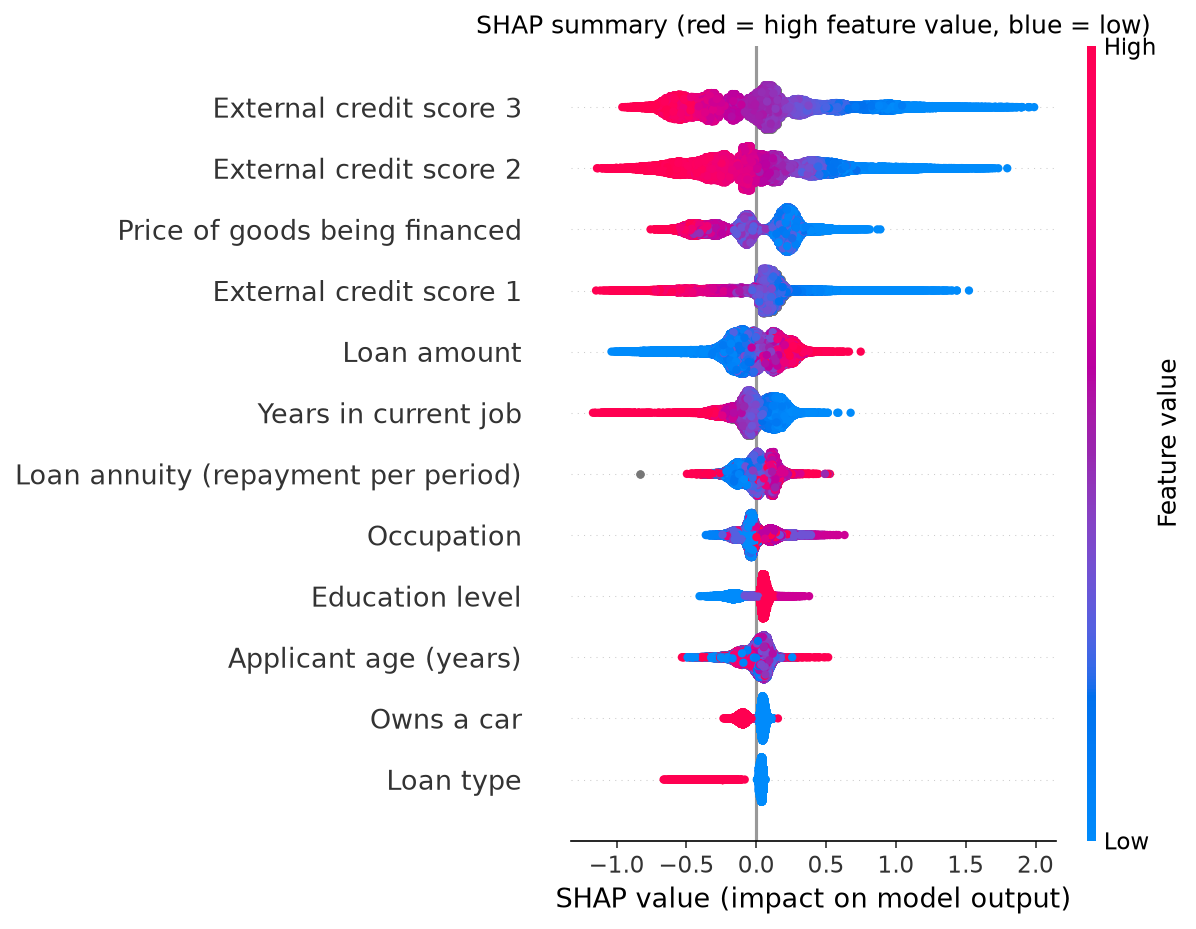
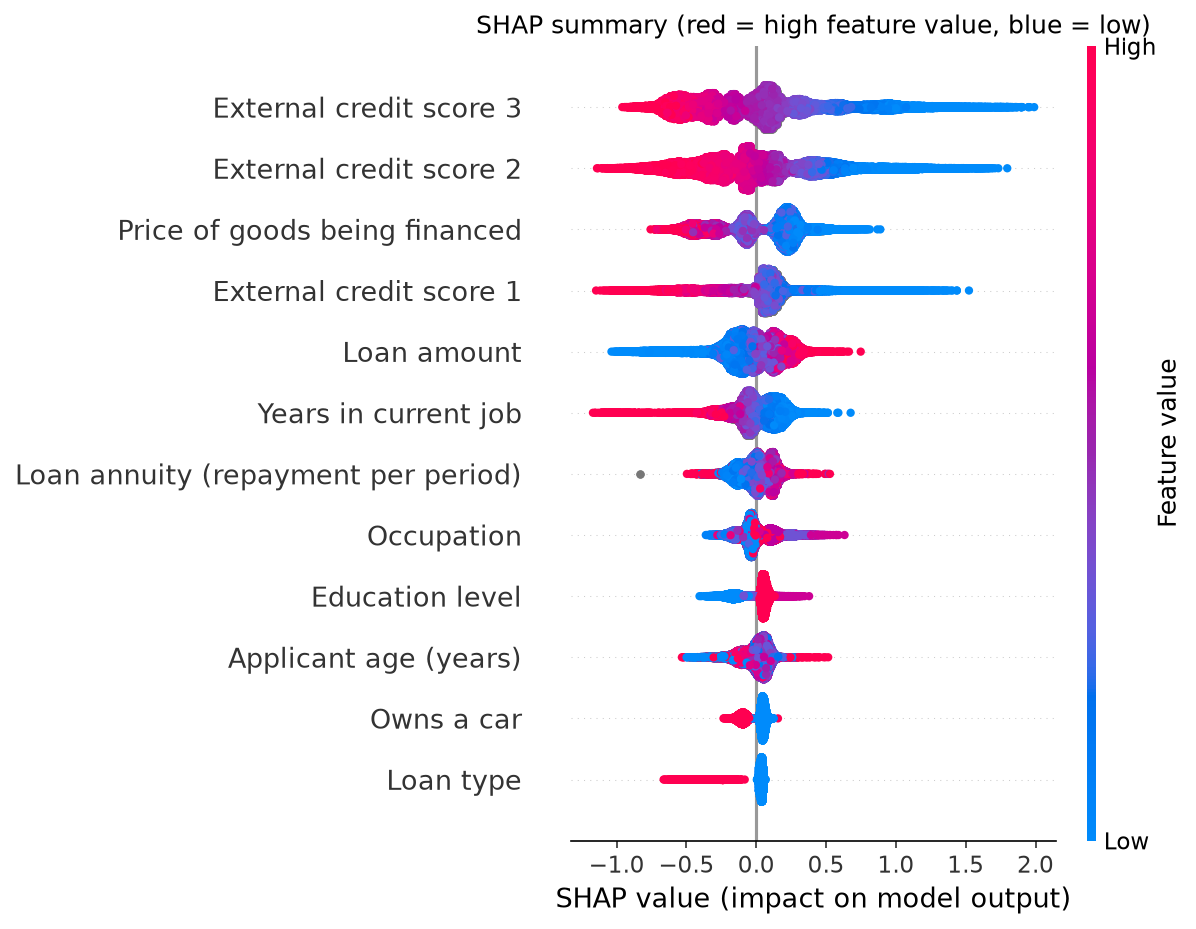
shap ground truth

diff --git a/src/compute_shap.py b/src/compute_shap.py
@@ -1,0 +1,117 @@
+"""Compute SHAP values (the ground truth) for every unseen test applicant."""
+import warnings
+from pathlib import Path
+
+import joblib
+import matplotlib
+
+matplotlib.use("Agg")
+import matplotlib.pyplot as plt
+import numpy as np
+import pandas as pd
+import shap
+
+from src.data_prep import CATEGORICAL, FEATURES, READABLE
+from src.train_model import FIG, MODEL_PATH, PRED_PATH, load_config, load_data, split
+
+SHAP_PATH = Path("data/processed/shap_values_test.csv")
+TABLES = Path("outputs/tables")
+
+# shap prints a harmless notice about its LightGBM output format; the code below handles both formats.
+warnings.filterwarnings("ignore", message=".*LightGBM binary classifier.*")
+
+TOP_K = 8  # features shown in the single-applicant chart
+
+
+def fmt(value) -> str:
+    if pd.isna(value):
+        return "missing"
+    if isinstance(value, (int, float, np.integer, np.floating)):
+        return f"{value:,.2f}"
+    return str(value)
+
+
+def main() -> None:
+    cfg = load_config()
+    model = joblib.load(MODEL_PATH)
+    _, _, test = split(load_data(), cfg["seed"], cfg["test_size"])
+    X = test[FEATURES]
+
+    # 1. SHAP values: one number per applicant per feature
+    explainer = shap.TreeExplainer(model)
+    sv = explainer.shap_values(X)
+    if isinstance(sv, list):          # some shap versions return [class 0, class 1]
+        sv = sv[1]
+    sv = np.asarray(sv)
+    if sv.ndim == 3:                  # some return (applicants, features, classes)
+        sv = sv[:, :, 1]
+    base = np.ravel(explainer.expected_value)[-1]
+
+    # 2. Sanity check: baseline + sum of an applicant's SHAP values must equal the model's raw output
+    raw = model.predict(X, raw_score=True)
+    err = np.abs(base + sv.sum(axis=1) - raw).max()
+    print(f"Additivity check (should be ~0): max difference = {err:.2e}")
+
+    shap_df = pd.DataFrame(sv, columns=FEATURES)
+    shap_df.insert(0, "SK_ID_CURR", test["SK_ID_CURR"].values)
+    shap_df.to_csv(SHAP_PATH, index=False)
+
+    # 3. Global importance: average size of each feature's push across all test applicants
+    mean_abs = np.abs(sv).mean(axis=0)
+    glob = pd.DataFrame({"feature": FEATURES, "readable": [READABLE[f] for f in FEATURES], "mean_abs_shap": mean_abs})
+    glob["share_pct"] = glob["mean_abs_shap"] / glob["mean_abs_shap"].sum() * 100
+    glob = glob.sort_values("mean_abs_shap", ascending=False).reset_index(drop=True)
+    glob.insert(0, "rank", glob.index + 1)
+    TABLES.mkdir(parents=True, exist_ok=True)
+    glob.to_csv(TABLES / "global_importance.csv", index=False)
+    print("\nTop 10 features overall (global ranking):")
+    print(glob.head(10)[["rank", "readable", "share_pct"]].to_string(index=False, float_format=lambda v: f"{v:.1f}"))
+
+    FIG.mkdir(parents=True, exist_ok=True)
+
+    top = glob.head(12).iloc[::-1]
+    fig, ax = plt.subplots(figsize=(8, 5))
+    ax.barh(top["readable"], top["mean_abs_shap"], color="#028090")
+    ax.set_xlabel("Average |SHAP value| (average push on the model's output)")
+    ax.set_title("Global feature importance (all test applicants)")
+    plt.tight_layout()
+    plt.savefig(FIG / "08_global_shap_importance.png", dpi=150)
+    plt.close()
+
+    # 4. Beeswarm: every dot is one applicant. Text columns are turned into codes just for colouring.
+    Xp = X.copy()
+    for c in CATEGORICAL:
+        Xp[c] = Xp[c].cat.codes
+    Xp.columns = [READABLE[c] for c in Xp.columns]
+    shap.summary_plot(sv, Xp, max_display=12, show=False)
+    plt.title("SHAP summary (red = high feature value, blue = low)")
+    plt.tight_layout()
+    plt.savefig(FIG / "09_shap_beeswarm.png", dpi=150, bbox_inches="tight")
+    plt.close()
+
+    # 5. One example flagged applicant: the chart your LLM explanations will be checked against
+    pred = pd.read_csv(PRED_PATH)
+    flagged = pred[pred["flagged"] == 1].sample(1, random_state=cfg["seed"]).iloc[0]
+    pos = int(np.where(test["SK_ID_CURR"].values == flagged["SK_ID_CURR"])[0][0])
+    row, vals = sv[pos], X.iloc[pos]
+    order = np.argsort(-np.abs(row))[:TOP_K][::-1]
+    labels = [f"{READABLE[FEATURES[i]]} = {fmt(vals.iloc[i])}" for i in order]
+    colors = ["#d9534f" if row[i] > 0 else "#4c9fa8" for i in order]
+    fig, ax = plt.subplots(figsize=(9, 5))
+    ax.barh(labels, row[order], color=colors)
+    ax.axvline(0, color="black", linewidth=0.8)
+    ax.set_xlabel("SHAP value (red pushes toward default, teal pushes toward repaying)")
+    ax.set_title(f"Applicant {int(flagged['SK_ID_CURR'])}: predicted default probability {flagged['pred_prob']:.1%}")
+    plt.tight_layout()
+    plt.savefig(FIG / "10_example_applicant_shap.png", dpi=150)
+    plt.close()
+
+    print(f"\nExample applicant {int(flagged['SK_ID_CURR'])} (predicted default probability {flagged['pred_prob']:.1%}, "
+          f"actually {'defaulted' if flagged['TARGET'] == 1 else 'repaid'}):")
+    for i in order[::-1][:5]:
+        direction = "pushes toward DEFAULT" if row[i] > 0 else "pushes toward REPAYING"
+        print(f"  {READABLE[FEATURES[i]]} = {fmt(vals.iloc[i])}: {row[i]:+.3f} ({direction})")
+
+
+if __name__ == "__main__":
+    main()
